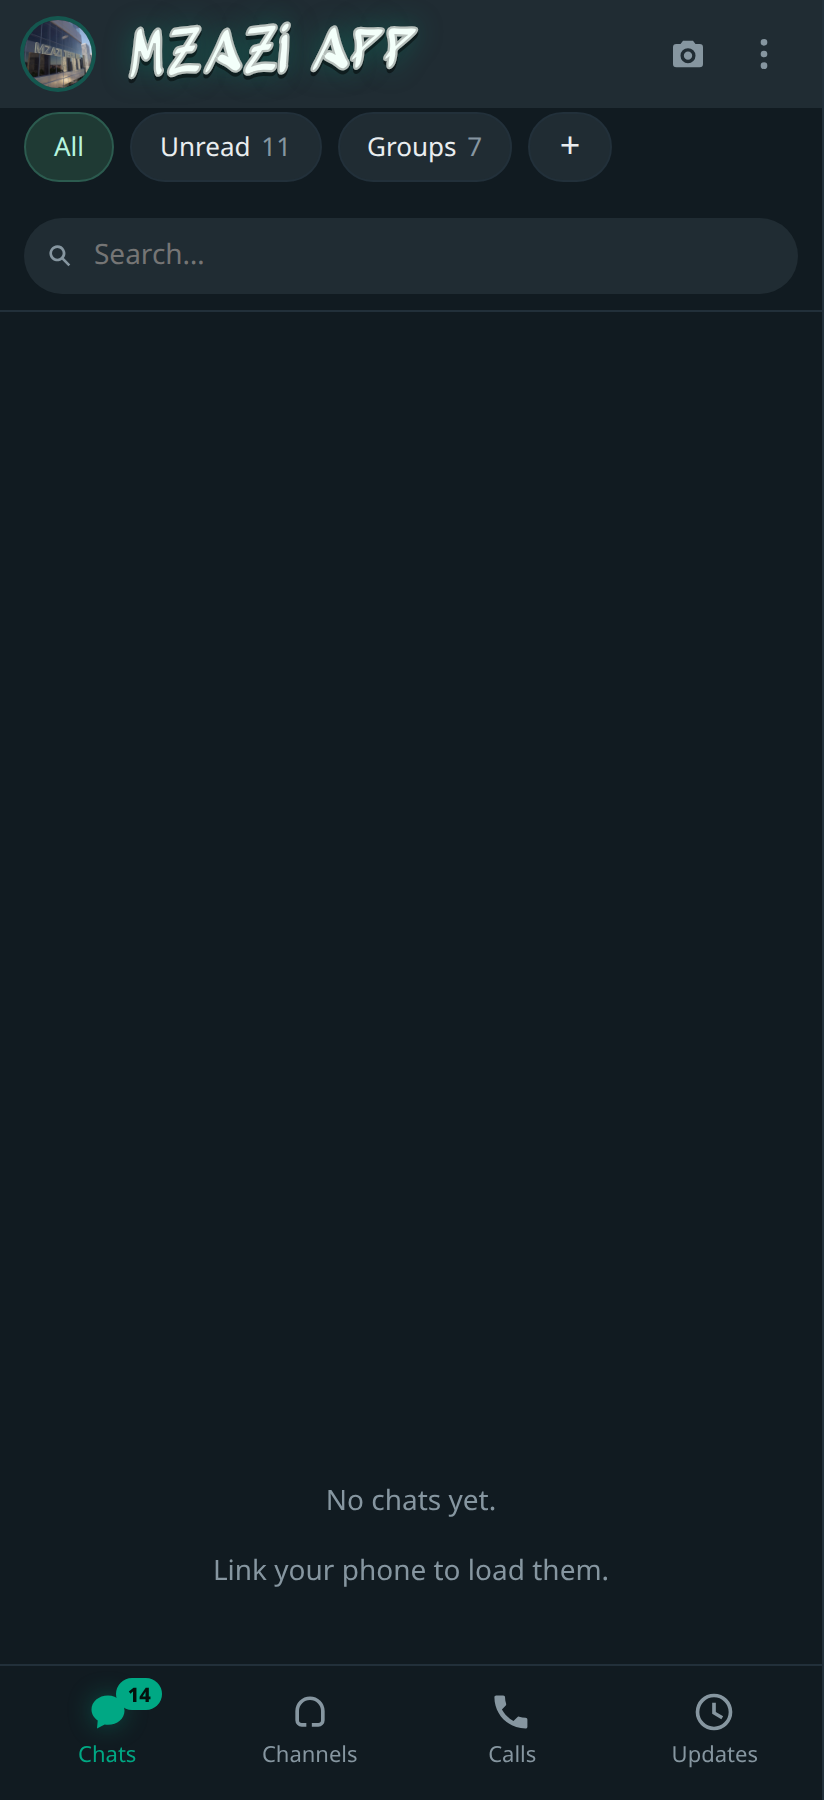
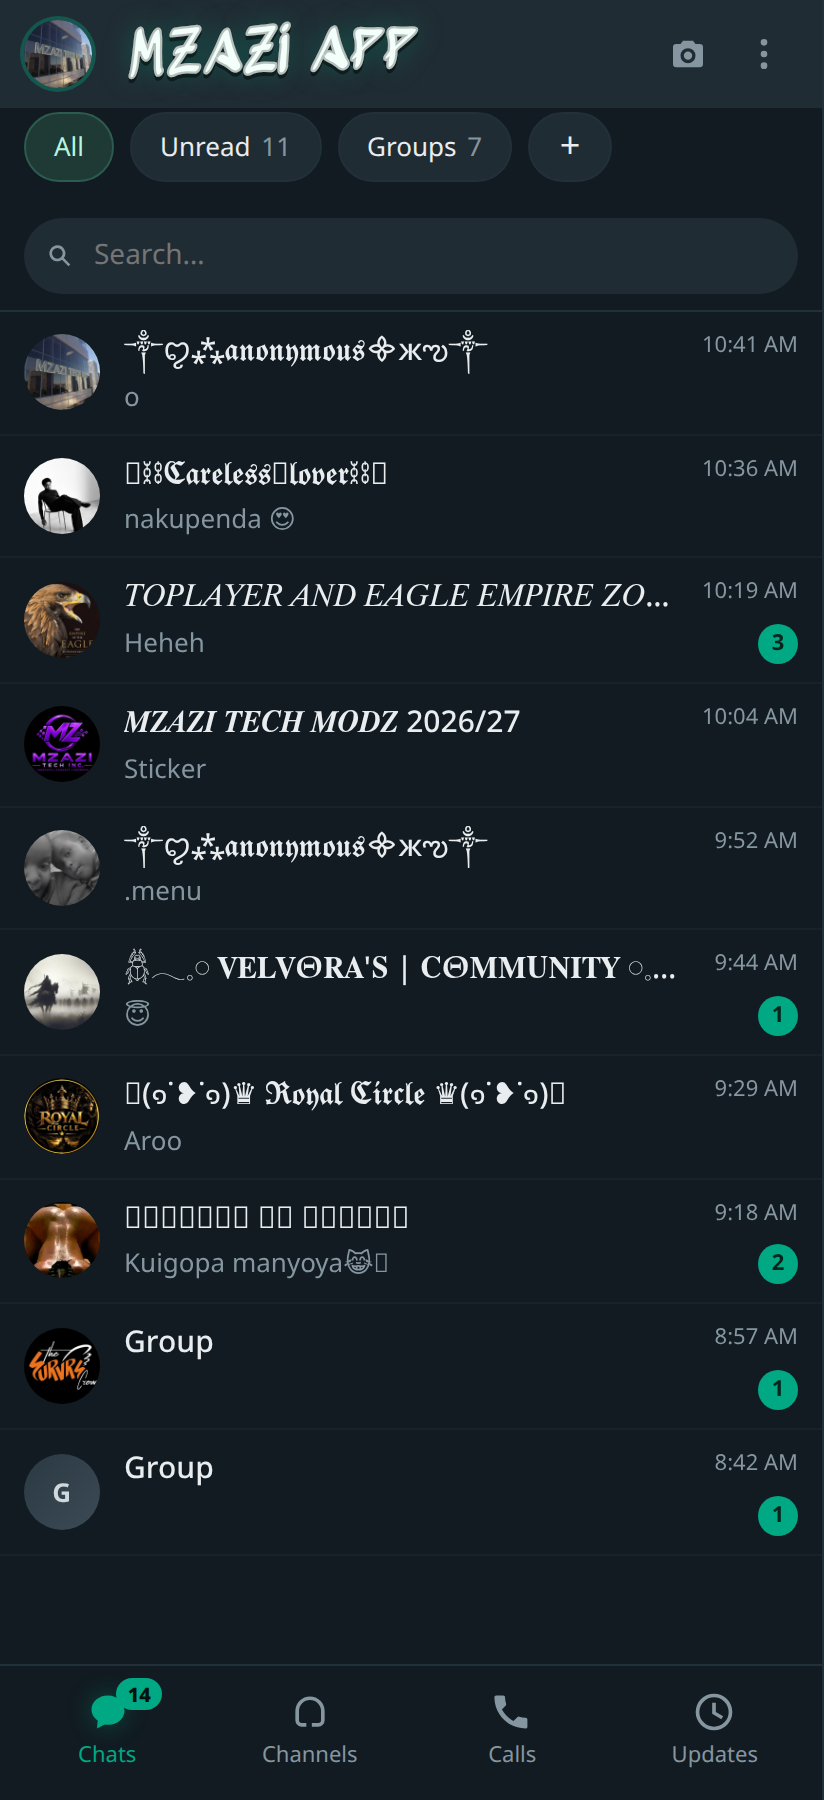
Add the MZAZI drift screen animation
The brand word now travels across the screen on both axes, bouncing off the
edges inside the list area so it never covers the top bar or the tab bar.
Three sizes drift at different speeds, each sized down until it fits the
viewport.

diff --git a/public/app.js b/public/app.js
@@ -767,7 +767,7 @@
     }
     const ctx = canvas.getContext("2d");
     const rnd = (a, b) => a + Math.random() * (b - a);
-    let type = "off", parts = [], raf = 0, w = 0, h = 0;
+    let type = "off", parts = [], raf = 0, w = 0, h = 0, words = [];
 
     const TYPES = {
       flowers: { n: 16, color: () => ["#ff8fb1", "#ffc2d1", "#f7e6a5", "#e8b4ff"][Math.floor(Math.random() * 4)] },
@@ -831,6 +831,88 @@
       ctx.restore();
     }
 
+    // ── MZAZI drift: the brand word slides across both axes and bounces off
+    // the screen edges, so it is always travelling side to side and up/down.
+    const WORD = "MZAZI";
+    const WORD_LOOKS = [
+      { scale: 0.27, speed: 1.55, alpha: 0.9, spot: [0.30, 0.26], color: "#3ddc84", glow: "rgba(61,220,132,.6)" },
+      { scale: 0.19, speed: 2.30, alpha: 0.72, spot: [0.66, 0.55], color: "#ff5fa2", glow: "rgba(255,95,162,.55)" },
+      { scale: 0.125, speed: 1.15, alpha: 0.58, spot: [0.38, 0.80], color: "#ffd166", glow: "rgba(255,209,102,.5)" },
+    ];
+    const wordFont = (size) => `900 ${size}px "Arial Black", Impact, system-ui, sans-serif`;
+    // Keep the drifting word inside the list area: over the top bar or the tab
+    // bar it hides the labels underneath, which makes them unreadable.
+    const WORD_TOP = 96, WORD_BOT = 74;
+
+    function buildWords() {
+      words = WORD_LOOKS.map((look, i) => {
+        let size = Math.max(14, Math.min(w, h) * look.scale);
+        ctx.font = wordFont(size);
+        // Shrink until the word fits the viewport, so it can drift instead of
+        // sitting pinned against both edges on a narrow phone screen.
+        const maxW = w * 0.68;
+        let textW = ctx.measureText(WORD).width;
+        if (textW > maxW) {
+          size = Math.max(14, size * (maxW / textW));
+          ctx.font = wordFont(size);
+          textW = ctx.measureText(WORD).width;
+        }
+        const halfW = (textW / 2) * 1.06; // letterSpacing pad
+        const halfH = size * 0.62;
+        const clampX = (x) => Math.min(Math.max(x, halfW + 6), Math.max(halfW + 6, w - halfW - 6));
+        const minY = WORD_TOP + halfH, maxY = Math.max(minY, h - WORD_BOT - halfH);
+        const clampY = (y) => Math.min(Math.max(y, minY), maxY);
+        return {
+          ...look, size, halfW, halfH,
+          // start spread apart so the three words do not pile up on open
+          x: clampX(w * look.spot[0] + rnd(-w * 0.04, w * 0.04)),
+          y: clampY(h * look.spot[1] + rnd(-h * 0.04, h * 0.04)),
+          // every word travels on both axes; alternate directions so they cross
+          vx: (i % 2 ? -1 : 1) * look.speed * rnd(0.85, 1.2),
+          vy: (i % 2 ? 1 : -1) * look.speed * rnd(0.55, 0.95),
+          rot: rnd(-0.3, 0.3),
+          phase: rnd(0, Math.PI * 2),
+        };
+      });
+    }
+
+    function drawWord(it) {
+      const now = performance.now() / 1000;
+      ctx.save();
+      ctx.translate(it.x, it.y);
+      ctx.rotate(it.rot + Math.sin(now * 0.7 + it.phase) * 0.05);
+      ctx.textAlign = "center";
+      ctx.textBaseline = "middle";
+      ctx.font = wordFont(it.size);
+      if ("letterSpacing" in ctx) ctx.letterSpacing = `${Math.round(it.size * 0.05)}px`;
+      ctx.globalAlpha = it.alpha;
+      ctx.shadowColor = it.glow;
+      ctx.shadowBlur = it.size * 0.3;
+      ctx.fillStyle = it.color;
+      ctx.fillText(WORD, 0, 0);
+      ctx.shadowBlur = 0;
+      ctx.globalAlpha = it.alpha * 0.65;
+      ctx.lineWidth = Math.max(1, it.size * 0.03);
+      ctx.strokeStyle = "#ffffff";
+      ctx.strokeText(WORD, 0, 0);
+      ctx.restore();
+      if ("letterSpacing" in ctx) ctx.letterSpacing = "0px";
+    }
+
+    function stepWord() {
+      ctx.clearRect(0, 0, w, h);
+      for (const it of words) {
+        it.x += it.vx;
+        it.y += it.vy;
+        if (it.x - it.halfW < 4) { it.x = 4 + it.halfW; it.vx = Math.abs(it.vx); }
+        if (it.x + it.halfW > w - 4) { it.x = w - 4 - it.halfW; it.vx = -Math.abs(it.vx); }
+        if (it.y - it.halfH < WORD_TOP) { it.y = WORD_TOP + it.halfH; it.vy = Math.abs(it.vy); }
+        if (it.y + it.halfH > h - WORD_BOT) { it.y = h - WORD_BOT - it.halfH; it.vy = -Math.abs(it.vy); }
+        drawWord(it);
+      }
+      raf = requestAnimationFrame(stepWord);
+    }
+
     function step() {
       ctx.clearRect(0, 0, w, h);
       for (const p of parts) {
@@ -843,12 +925,19 @@
       raf = requestAnimationFrame(step);
     }
 
+    window.addEventListener("resize", () => {
+      if (type !== "mzazi" || !words.length) return;
+      resize(); buildWords(); // keep the word inside the new viewport
+    });
+
     return {
       start(t) {
-        cancelAnimationFrame(raf); raf = 0; parts = [];
+        cancelAnimationFrame(raf); raf = 0; parts = []; words = [];
         type = t;
-        if (!TYPES[t] || window.matchMedia("(prefers-reduced-motion: reduce)").matches) return;
+        if (!TYPES[t] && t !== "mzazi") return;
+        if (window.matchMedia("(prefers-reduced-motion: reduce)").matches) return;
         resize();
+        if (t === "mzazi") { buildWords(); stepWord(); return; }
         for (let i = 0; i < TYPES[t].n; i++) {
           const p = spawn(true);
           p.y = rnd(-h, h); // already spread over the screen on start

diff --git a/public/sw.js b/public/sw.js
@@ -1,5 +1,5 @@
 /* Shell cache only. Chats and media always come from the network. */
-const SHELL = "whatsweb-shell-v32";
+const SHELL = "whatsweb-shell-v33";
 const ASSETS = ["/", "/app.js", "/styles.css", "/manifest.webmanifest", "/icon-192.png", "/icon-512.png", "/fonts/sedgwick-ave-display.woff2"];
 
 self.addEventListener("install", (e) => {

diff --git a/public/index.html b/public/index.html
@@ -163,6 +163,7 @@
         <button class="chip" data-fx="confetti">Confetti</button>
         <button class="chip" data-fx="bubbles">Bubbles</button>
         <button class="chip" data-fx="leaves">Leaves</button>
+        <button class="chip" data-fx="mzazi">MZAZI drift</button>
       </div>
 
       <div class="gp-sec">Linked device</div>
